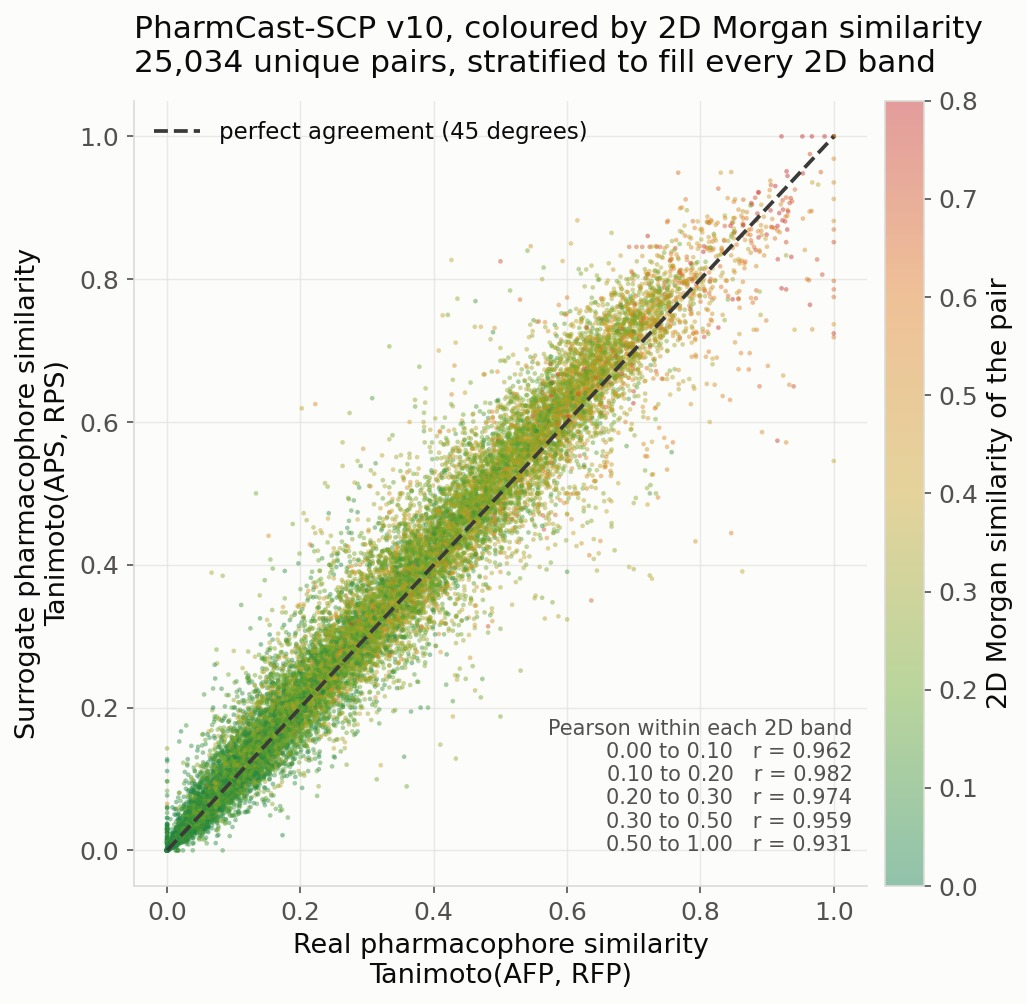
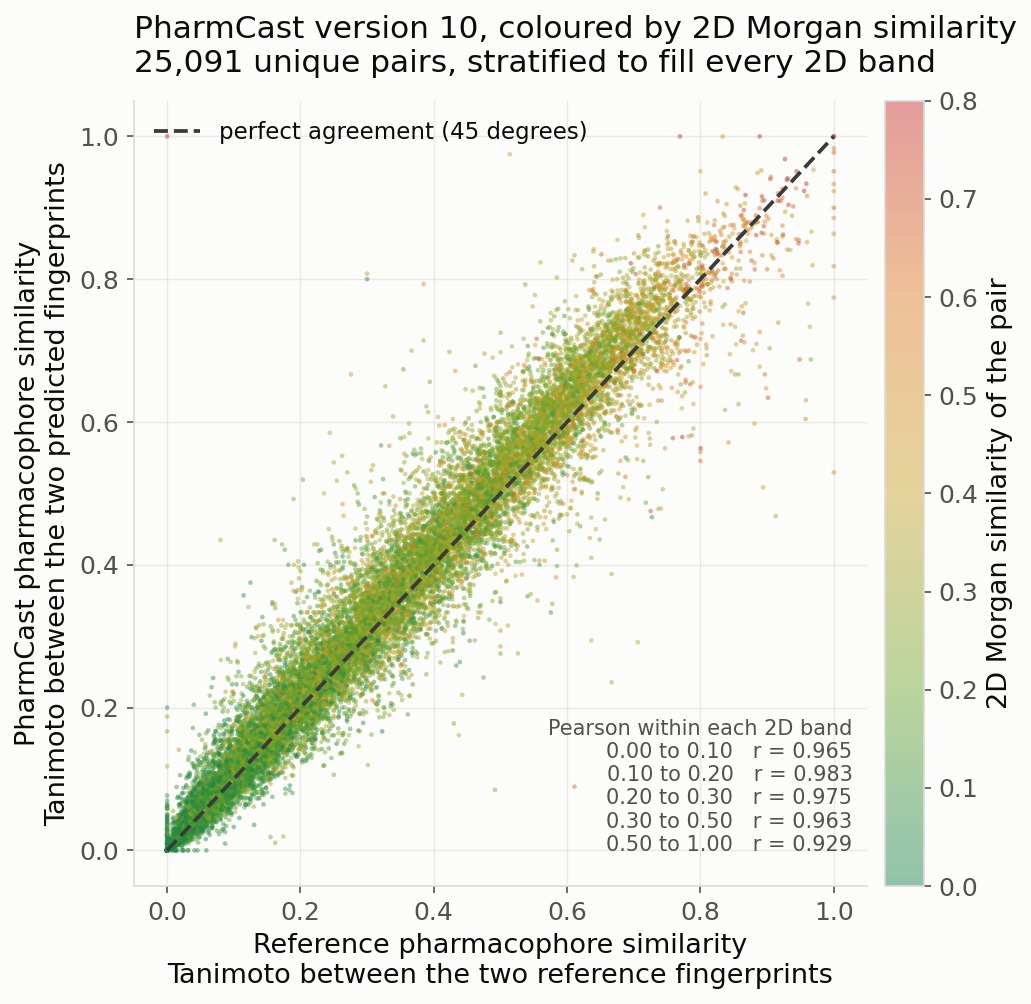
Correct the two regenerated figures' text, and drop the banned vocabulary
The images are ground truth. Two assets were regenerated on 1 September at
23:31 and the text around them disagreed with what they draw.

not-2d-similarity.jpg: the caption gave the five band Pearson values as
0.962, 0.982, 0.974, 0.959 and 0.931. The figure gives 0.965, 0.983,
0.975, 0.963 and 0.929 over 25,091 unique pairs. The alt text described a
plot that does not exist, so it is rewritten to describe what is drawn.
The closing sentence "That flatness is the claim the panel makes" is
gone: a caption states what the panel shows, it does not tell the reader
what to conclude.

corpus-chemistry.jpg: medians corrected from 0.386 and 0.862 to 0.389 and
0.864. ChEMBL at 0.368 was already right.

Vocabulary, throughout: 38 occurrences of corpus and corpora, 22 of SCP
and 5 of seal are gone, replaced by training set, source set, screening
collection, frozen, or the set as it stood, whichever the sentence
actually meant. Asset filenames and the checkpoint filename keep their
existing names: renaming them would break the site and the publish gate,
and the rule is about prose, alt text and captions.

The download table keeps its version numbers so an older published result
stays reproducible, but names them as versions rather than by the SCP
token.

Claude-Session: https://claude.ai/code/session_015ZSeUKPi5XUW6t8jZLsfnb

diff --git a/README.md b/README.md
@@ -65,7 +65,7 @@ what scaffold hopping looks like from inside the descriptor.*
 ensemble and runs the reference calculation over it. PharmCast predicts the same
 ensemble record from the two dimensional structure and skips the ensemble
 entirely. Panel E is saquinavir against indinavir, two HIV-1 protease
-inhibitors, scored by PharmCast SCP v10: the reference calculation gives a
+inhibitors, scored by PharmCast version 10: the reference calculation gives a
 pharmacophoric similarity of 0.841 and PharmCast predicts 0.843, where a two
 dimensional Morgan Tanimoto puts the same pair at 0.303. That gap is the whole
 point of the descriptor. The network is 2,059 inputs, hidden layers of 1,024 and
@@ -108,9 +108,9 @@ checksummed, from **<https://pharmcast.ai/models>**.
 
 | Model | Endpoint | SHA-256 |
 |---|---|---|
-| **PharmCast SCP v10** (current) | [`/models/pharmcast_scp_v10.pt`](https://pharmcast.ai/models/pharmcast_scp_v10.pt) | `b25ad356…d36284cf` |
-| PharmCast SCP v9 | [`/models/pharmcast_scp_v9.pt`](https://pharmcast.ai/models/pharmcast_scp_v9.pt) | `1c0be82e…209699c6` |
-| PharmCast SCP v8 | [`/models/pharmcast_scp_v8.pt`](https://pharmcast.ai/models/pharmcast_scp_v8.pt) | `d1389037…ac8f42ab5` |
+| **PharmCast version 10** (current) | [`/models/pharmcast_scp_v10.pt`](https://pharmcast.ai/models/pharmcast_scp_v10.pt) | `b25ad356…d36284cf` |
+| PharmCast version 9 | [`/models/pharmcast_scp_v9.pt`](https://pharmcast.ai/models/pharmcast_scp_v9.pt) | `1c0be82e…209699c6` |
+| PharmCast version 8 | [`/models/pharmcast_scp_v8.pt`](https://pharmcast.ai/models/pharmcast_scp_v8.pt) | `d1389037…ac8f42ab5` |
 | *(all releases, append-only)* | [`/models/SHA256SUMS`](https://pharmcast.ai/models/SHA256SUMS) | n/a |
 
 Superseded releases move to the **[archive](https://pharmcast.ai/models/#archive)**
@@ -125,11 +125,11 @@ shasum -a 256 -c SHA256SUMS                      # macOS / Linux
 certutil -hashfile pharmcast_scp_v10.pt SHA256    # Windows
 ```
 
-**SCP v10 is the current model**, and everything below describes it. Earlier
+**version 10 is the current model**, and everything below describes it. Earlier
 checkpoints stay downloadable and their checksums stay in `SHA256SUMS`, which is
 append-only, so a result computed against one remains reproducible.
 
-It is trained on a sealed snapshot of 5,946,696 molecules: 4,609,488 screening
+It is trained on a frozen snapshot of 5,946,696 molecules: 4,609,488 screening
 collection, 1,214,214 activity-backed ChEMBL from 142 to 1000 Da, and 122,994
 loop peptides. 1% was held out as a molecular-weight-stratified stopping set,
 leaving 5,887,229 for gradient updates. It ran 100 epochs and the weights of
@@ -283,7 +283,7 @@ cd examples
 ./01_fingerprint.sh  /path/to/pharmcast_scp_v10.pt   # SMILES file -> native .pfp
 ./02_similarity.sh   /path/to/pharmcast_scp_v10.pt   # 3D vs 2D similarity, three pairs
 ./03_bits.sh         /path/to/pharmcast_scp_v10.pt   # fingerprints -> ones and zeros
-./04_model_card.sh   /path/to/pharmcast_scp_v10.pt   # corpus and applicability domain
+./04_model_card.sh   /path/to/pharmcast_scp_v10.pt   # training set and applicability domain
 ./05_screen.sh       /path/to/pharmcast_scp_v10.pt   # rank a library against queries
 ```
 
@@ -298,7 +298,7 @@ alone does not tell you anything:
   caffeine / ibuprofen                pharmacophore 0.000    2D 0.087
 ```
 
-*Numbers above are real output from `02_similarity.sh` on **SCP v10**. They move
+*Numbers above are real output from `02_similarity.sh` on **version 10**. They move
 with the model, so if your output differs, check the checkpoint's sha256 and
 your RDKit version before anything else.*
 
@@ -370,7 +370,7 @@ $ pfp2bits library.pfp --width 120
 
 It loads no model, because the fingerprints are already in the file.
 
-*Bit counts above are **SCP v10**. `--width 120` prints the first 120 of 10,549
+*Bit counts above are **version 10**. `--width 120` prints the first 120 of 10,549
 pharmacophores, so it is a prefix and not a short fingerprint. The same
 molecule on <https://pharmcast.ai/fingerprint.html> prints all 10,549 and begins
 with these same 120 characters. The counts move with the model.*
@@ -379,14 +379,12 @@ with these same 120 characters. The counts move with the model.*
 
 ## Accuracy
 
-**PharmCast SCP v10**, measured on molecules the model cannot have seen.
+**PharmCast version 10**, measured on molecules the model cannot have seen.
 
-The peptide row is the **reserved peptide test set**: 13,500 loops held back from
-the corpus and never trained on. It is the largest and most stable of the three
+The peptide row is the **reserved peptide test set**: 13,500 loops held back from the training set and never trained on. It is the largest and most stable of the three
 populations and the one to read first.
 
-The catalogue and ChEMBL rows are every molecule fingerprinted after the training
-corpus was sealed. **Catalogue fingerprinting is now complete at 99.83% of the
+The catalogue and ChEMBL rows are every molecule fingerprinted after the training set was frozen. **Catalogue fingerprinting is now complete at 99.83% of the
 eligible set**, so only 13,373 catalogue molecules remain outside training. That
 residue is the tail of a finished build rather than a representative sample, and
 its n is stated for that reason.
@@ -403,7 +401,7 @@ way the reference does, exact ties excluded.
 
 ChEMBL is the weakest population: error is about 50% higher than on catalogue
 chemistry and roughly one pair in five falls outside 0.05. Error rises to
-**0.041 above 600 Da**, where corpus coverage is thinnest.
+**0.041 above 600 Da**, where coverage of the training set is thinnest.
 
 Per fingerprint rather than per pair: **median MCC 0.914** on the 13,500 molecule
 reserved peptide test set, with a 10th percentile of 0.846 and a 90th of 0.958.
@@ -417,41 +415,40 @@ reference calculation agrees with itself an order of magnitude more tightly than
 PharmCast agrees with it. **The ground truth is not the problem**, and 0.006 is
 the floor no surrogate can beat.
 
-![Predicted against real pairwise PFP Tanimoto for PharmCast SCP v10, coloured by population: catalogue chemistry, ChEMBL activity backed, and loop peptides, all following the diagonal](assets/fidelity-by-population.jpg)
+![Predicted against real pairwise PFP Tanimoto for PharmCast version 10, coloured by population: catalogue chemistry, ChEMBL activity backed, and loop peptides, all following the diagonal](assets/fidelity-by-population.jpg)
 
-*PharmCast **SCP v10**. Predicted against real pairwise similarity on held out
+*PharmCast **version 10**. Predicted against real pairwise similarity on held out
 molecules, by population. The dashed line is exact agreement. Catalogue
 chemistry and loop peptides sit tight to it; ChEMBL compounds are the widest of
 the three.*
 
-![Per-molecule Matthews correlation coefficient between the predicted and the real fingerprint for PharmCast SCP v10](assets/per-molecule-mcc.jpg)
+![Per-molecule Matthews correlation coefficient between the predicted and the real fingerprint for PharmCast version 10](assets/per-molecule-mcc.jpg)
 
 *How closely each individual predicted fingerprint matches the real one, as the
-Matthews correlation coefficient per molecule. **SCP v10**, median 0.914 on the
+Matthews correlation coefficient per molecule. **version 10**, median 0.914 on the
 13,500 molecule reserved peptide test set.*
 
 ### It is not re-deriving 2D similarity
 
-![The same pairs coloured by 2D Morgan similarity, with Pearson essentially unchanged across every 2D similarity band](assets/not-2d-similarity.jpg)
+![Predicted against reference pharmacophore similarity for 25,091 unique pairs, each point coloured by the two dimensional Morgan similarity of that pair, with Pearson reported within each of five two dimensional bands](assets/not-2d-similarity.jpg)
 
-*Predicted against real pairwise similarity, coloured by two dimensional Morgan
-similarity, green for the most dissimilar pairs through red for the least.
-Agreement does not depend on 2D similarity, so the model is predicting three
-dimensional feature geometry rather than restating its own input. PharmCast **SCP v10** on held-out molecules stratified into five 2D bands. Pearson within the bands is 0.962, 0.982, 0.974, 0.959 and
-0.931 from the least 2D similar to the most. That flatness is the claim the
-panel makes.*
+*Predicted against reference pairwise similarity, coloured by two dimensional
+Morgan similarity, green for the most dissimilar pairs through red for the least.
+Agreement does not depend on two dimensional similarity, so the model is
+predicting three dimensional feature geometry rather than restating its own
+input. PharmCast version 10 on 25,091 unique held-out pairs, stratified into five
+two dimensional bands. Pearson within the bands is 0.965, 0.983, 0.975, 0.963 and
+0.929, from the least two dimensionally similar to the most.*
 
 ## Applicability domain: read this before trusting a score
 
 > **PharmCast is calibrated for catalogue-like chemistry to about 600 Da,
-> peptides to about 900 Da, and activity-backed ChEMBL chemistry in the band the
-> corpus has reached.** Outside that range it is extrapolating.
+> peptides to about 900 Da, and activity-backed ChEMBL chemistry in the band the > training set has reached.** Outside that range it is extrapolating.
 
-**The upper bound moves between releases.** The ChEMBL corpus is built in
-ascending molecular weight, so read `card()["applicability"]` out of the
+**The upper bound moves between releases.** The ChEMBL source set is built in ascending molecular weight, so read `card()["applicability"]` out of the
 checkpoint rather than assuming a fixed number.
 
-The reason is in the training corpus. The screening collection is filtered at
+The reason is in the training set. The screening collection is filtered at
 600 Da on ingest, so it contributes nothing above that line *by construction*.
 In the peptide-only SP models that left **only 1.43% of training above 600 Da,
 and every molecule of it a peptide**, so a large non-peptidic drug was answered
@@ -460,68 +457,62 @@ by extrapolating from a few thousand peptides: error rose from 0.02 to 0.07 and
 
 **ChEMBL exists to close exactly that gap, and it is working.** Activity-backed
 ChEMBL chemistry scores 0.024 median error at *r* 0.935, against 0.017 and 0.974
-for catalogue chemistry. The gap is now small. It is not closed: the corpus is
-built in ascending molecular weight, so competence extends upward as it fills
+for catalogue chemistry. The gap is now small. It is not closed: the training set is built in ascending molecular weight, so competence extends upward as it fills
 rather than covering the whole range at once. ChEMBL remains the widest of the
 three populations and is the number to watch.
 
 A model card that hides its failure mode is worse than no model card.
 
-## Training corpora
+## Training sets
 
-**What went into each model.** Every release is a snapshot of a corpus still
-being built, so the training set grows with the version number.
+**What went into each model.** Every release is a snapshot of a training set still being built, so the training set grows with the version number.
 
-![Stacked bars of training molecules per model version from SP v2 to SCP v10, split into screening collection, ChEMBL and loop peptides, rising from 1,724,833 to 5,887,229](assets/corpus-trajectory.jpg)
+![Stacked bars of training molecules per model version from SP v2 to version 10, split into screening collection, ChEMBL and loop peptides, rising from 1,724,833 to 5,887,229](assets/corpus-trajectory.jpg)
 
-*Training molecules per release, by source. SCP v10 trains on 5,887,229. The
-corpus is still being built, so each release is a larger snapshot of the same
+*Training molecules per release, by source. version 10 trains on 5,887,229. The training set is still being built, so each release is a larger snapshot of the same
 three sources.*
 
 **What that buys.** Agreement against training set size, one point per
 release.
 
-![Median MCC against training set size, one point per model from SP v2 to SCP v10, on a common held-out set](assets/agreement-vs-training-size.jpg)
+![Median MCC against training set size, one point per model from SP v2 to version 10, on a common held-out set](assets/agreement-vs-training-size.jpg)
 
-*Agreement with the real fingerprint against training set size. Returns from
-corpus growth are real but diminishing.*
+*Agreement with the real fingerprint against training set size. Returns from growth in the training set are real but diminishing.*
 
-Where the three corpora stand today:
+Where the three source sets stand today:
 
-| Corpus | At the SCP v10 snapshot | Expected total | Complete |
+| Source set | At the version 10 snapshot | Expected total | Complete |
 |---|---:|---:|---:|
 | Screening collection | 4,609,488 | 4,617,292 | 99.8% |
 | ChEMBL | 1,214,214 | 2,737,190 † | 44.4% |
 | Loop peptides | 136,494 | 136,494 | 100% |
 | **All three** | **5,960,196** | **7,490,976** | **79.6%** |
 
-![Bar chart of each corpus at the SCP v10 sealed snapshot against the expected total: screening collection 99.8%, ChEMBL 44.4%, loop peptides 100%](assets/corpus-progress.jpg)
+![Bar chart of each source set at the version 10 frozen snapshot against the expected total: screening collection 99.8%, ChEMBL 44.4%, loop peptides 100%](assets/corpus-progress.jpg)
 
 **The finished training set is expected to be 7,490,976 molecules**, and
-5,960,196 of them are fingerprinted. **The screening collection and the peptide
-corpus are now complete**, so ChEMBL is the only source with substantial work
-left and is where the corpus will grow next. Every molecule is fingerprinted with
-the real 100-conformer calculation, which is what makes the corpus slow to build
-and worth building.
+5,960,196 of them are fingerprinted. **The screening collection and the peptide set are now complete**, so ChEMBL is the only source with substantial work
+left and is where the training set will grow next. Every molecule is fingerprinted with
+the real 100-conformer calculation, which is what makes it slow to build.
 
 † **ChEMBL is the only projected figure.** The screening collection and the
-peptide corpus are enumerated sets whose totals are known, with only the
+peptide set are enumerated sets whose totals are known, with only the
 fingerprinting left to do.
 
-![Distribution of each molecule's highest 2D Tanimoto to any other molecule in the same corpus, for the screening collection, ChEMBL and the loop peptides](assets/corpus-chemistry.jpg)
+![Distribution of each molecule's highest two dimensional Tanimoto to any other molecule in the same source set, for the screening collection, ChEMBL and the loop peptides](assets/corpus-chemistry.jpg)
 
-*How much distinct chemistry each corpus holds. For every molecule, the highest
-2D Tanimoto to any other molecule in the same corpus, so a distribution sitting
-high means the corpus is largely analog series. Medians are 0.386 for the
-screening collection, 0.368 for ChEMBL and 0.862 for the loop peptides, on the
-same 6,000-molecule sample from each, because nearest-neighbour similarity rises
-with sample size and unequal samples cannot be compared.* ChEMBL selection is still running, so its expected
+*How much distinct chemistry each source set holds. For every molecule, the
+highest two dimensional Tanimoto to any other molecule in the same source set, so
+a distribution sitting high means that set is largely analogue series. Medians are
+0.389 for the screening collection, 0.368 for ChEMBL and 0.864 for the loop
+peptides, on the same 6,000 molecule sample from each, because nearest neighbour
+similarity rises with sample size and unequal samples cannot be compared.* ChEMBL selection is still running, so its expected
 total is an estimate and will move.
 
-SCP v10 trained on a 5,946,696-molecule snapshot, of which 5,887,229 were used
+version 10 trained on a 5,946,696-molecule snapshot, of which 5,887,229 were used
 for gradient updates and 59,467 reserved for early stopping:
 
-| Corpus | Molecules | Share |
+| Source set | Molecules | Share |
 |---|---:|---:|
 | Screening collection | 4,609,488 | 77.51% |
 | ChEMBL, activity backed | 1,214,214 | 20.42% |
@@ -531,23 +522,21 @@ Its output layer is 10,549 wide, one per pharmacophore.
 
 ### The training set is still being built
 
-**This is work in progress, not a finished system.** All three corpora are still
-being fingerprinted. SCP v10 is the current model, trained on a
+**This is work in progress, not a finished system.** All three source sets are still being fingerprinted. version 10 is the current model, trained on a
 5,946,696-molecule snapshot taken along the way against an expected final
-corpus of about 7,490,976.
+training set of about 7,490,976.
 
 **Work continues beyond v10.** No model here is a release
-candidate, and none will be until the corpora are complete. A preprint
+candidate, and none will be until the source sets are complete. A preprint
 describing the finished work is being written.
 
 Each version is published beside its predecessors and never replaces one, so a
 result computed against a given version stays reproducible.
 
-**SCP v10 reserves a stopping split** of 59,467 molecules, 1% of the snapshot
+**version 10 reserves a stopping split** of 59,467 molecules, 1% of the snapshot
 stratified by molecular weight, used only for early stopping, and the released
 weights are the epoch-68 ones restored after the run.
-Accuracy is then measured on a separate population: molecules fingerprinted
-*after* the training corpus was sealed, which the model cannot have seen.
+Accuracy is then measured on a separate population: molecules fingerprinted *after* the training set was frozen, which the model cannot have seen.
 
 Every release is published beside its predecessors and never replaces one.
 
@@ -555,18 +544,16 @@ Naming: **S** is the screening collection, **C** is ChEMBL, **P** is peptides.
 There is no peptide-only model, and "composite" means SP rather than a third
 thing.
 
-The ChEMBL corpus exists to repair a specific, measured weakness. The screening
+The ChEMBL source set exists to repair a specific, measured weakness. The screening
 collection is filtered at MW 600 on ingest, so in the SP models **only 1.4% of
 training sat above MW 600 and every molecule of it was a peptide**. Asked about a
 large non-peptidic drug, SP was extrapolating, and its error rose from 0.02 to
-0.07 with r falling from 0.97 to 0.63. The ChEMBL corpus is real, activity-backed
-chemistry in exactly that band, built in ascending molecular weight so the
+0.07 with r falling from 0.97 to 0.63. The ChEMBL source set is real, activity-backed chemistry in exactly that band, built in ascending molecular weight so the
 model's competence extends upward from what it already knows rather than
 jumping into a gap.
 
 **The evaluation compounds are held out of training** by ChEMBL identifier *and*
-by canonical structure, because the training corpus and the large-compound
-evaluation set are drawn from the same ChEMBL band and would otherwise overlap.
+by canonical structure, because the training set and the large-compound evaluation set are drawn from the same ChEMBL band and would otherwise overlap.
 Training on them would improve the reported large-compound error for an entirely
 artificial reason.
 
@@ -590,8 +577,7 @@ extracted.*
 
 This repository ships the model and the utilities for using it. It does **not**
 ship the reference pharmacophore fingerprint generator
-or any of the fingerprint-generating toolchain, and it does not redistribute any
-training corpus.
+or any of the fingerprint-generating toolchain, and it does not redistribute any training set.
 
 ## Licence
 
@@ -599,15 +585,13 @@ training corpus.
 fork it, embed it; keep the `LICENSE` and `NOTICE` files with it.
 
 `NOTICE` credits the sources the model was trained on: the RCSB Protein Data
-Bank (CC0), ChEMBL (CC BY-SA 3.0) and the Enamine screening collection. No
-training corpus is redistributed here, only the trained parameters, and
+Bank (CC0), ChEMBL (CC BY-SA 3.0) and the Enamine screening collection. No training set is redistributed here, only the trained parameters, and
 keeping `NOTICE` intact, which Apache-2.0 already requires, satisfies the
 attribution those sources ask for.
 
 ## White paper
 
-The full method description, with the corpus construction, the evaluation
-protocol and every figure, current on **SCP v10**.
+The full method description, with the construction of the training set, the evaluation protocol and every figure, current on **version 10**.
 
 **Read it at <https://pharmcast.ai/whitepaper/>**, or open
 [`docs/whitepaper.pdf`](docs/whitepaper.pdf), which GitHub renders inline.
@@ -617,8 +601,7 @@ is self-contained, but **GitHub shows HTML as source rather than rendering it**,
 so a browser is the wrong way to read that file. Download it, or use one of the
 two links above.
 
-Note the evaluation protocol it describes: the model is scored on collection
-molecules fingerprinted *after* its training corpus was sealed, so the
+Note the evaluation protocol it describes: the model is scored on collection molecules fingerprinted *after* its training set was frozen, so the
 evaluation population is one the model cannot have seen.
 
 ## Citation
